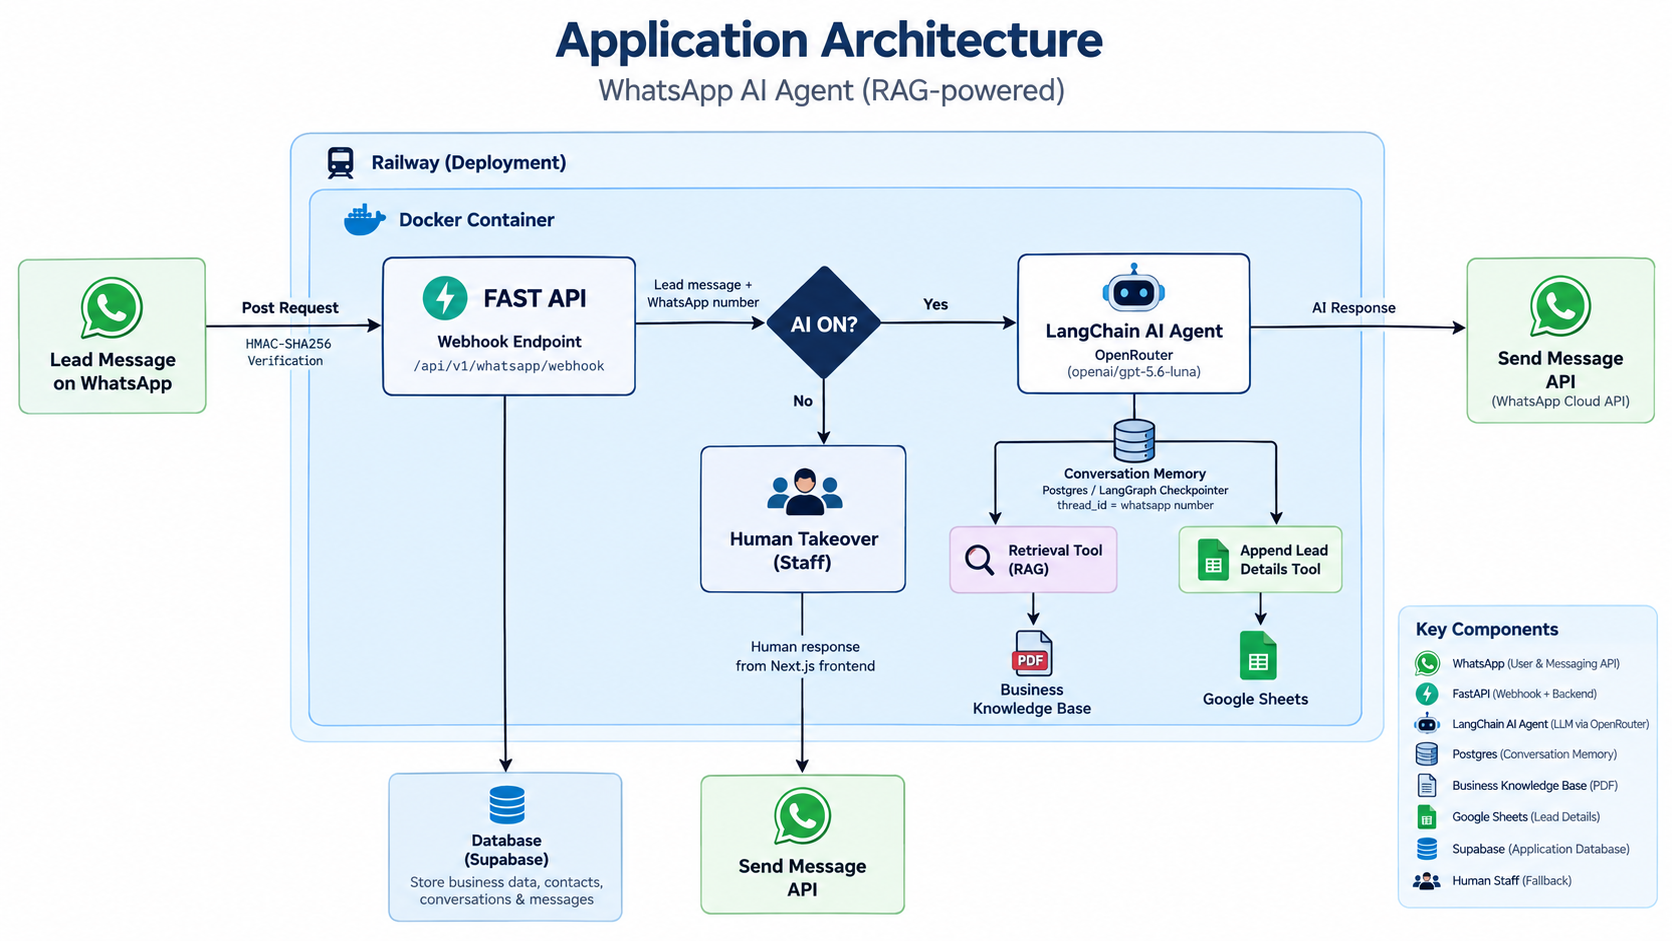
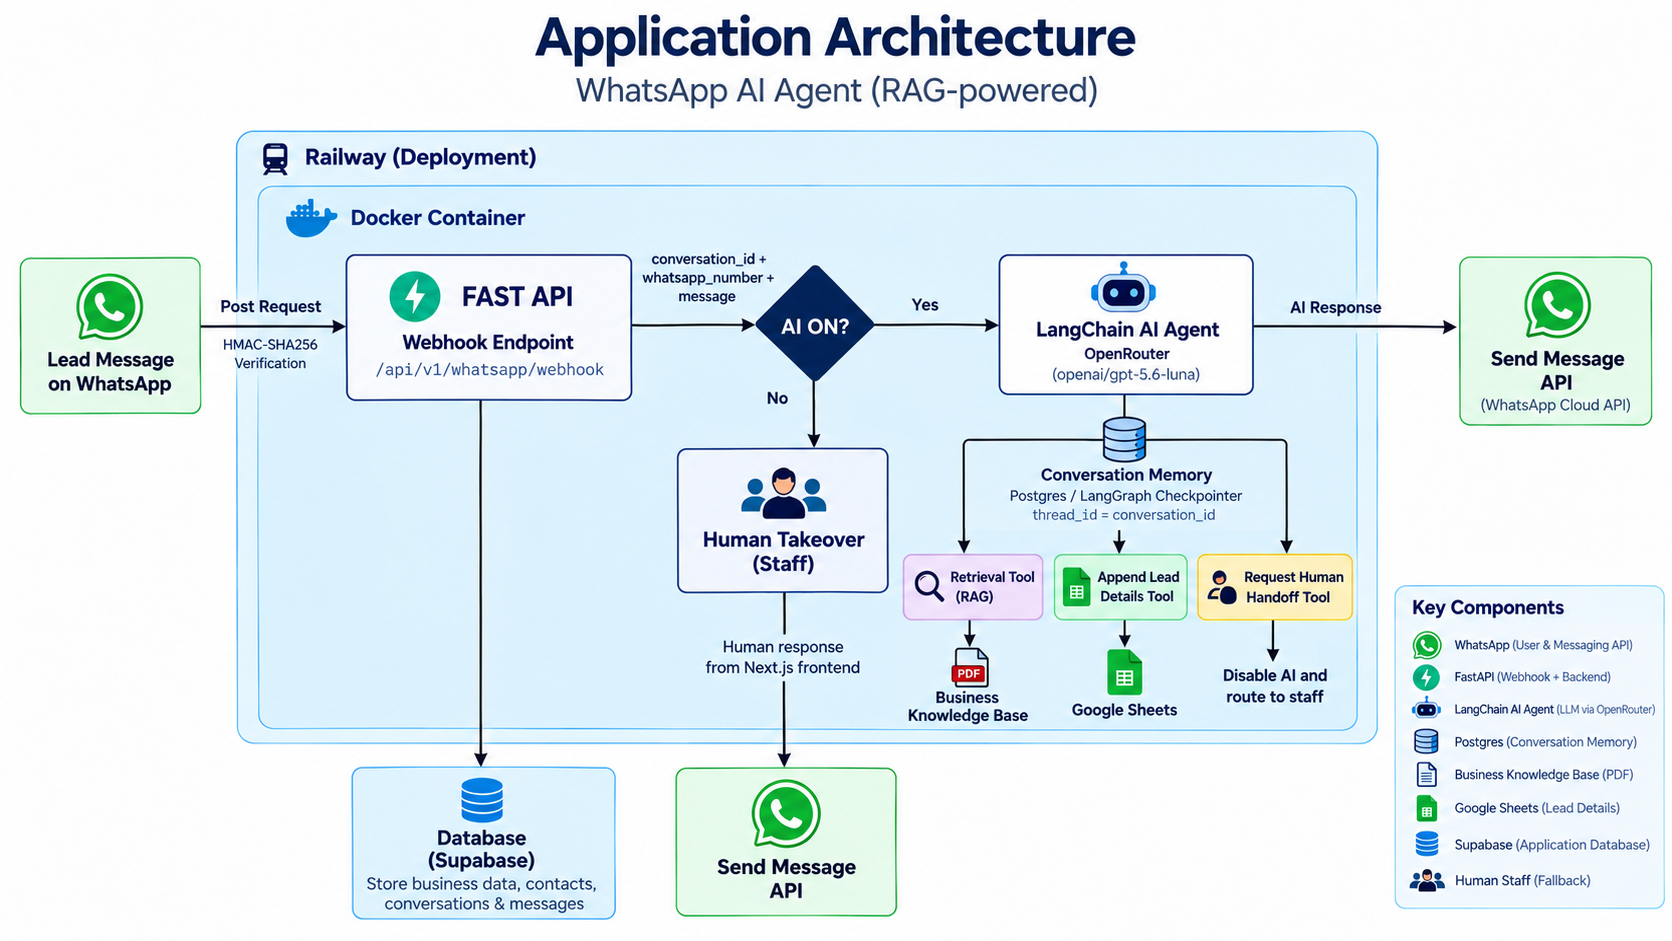
Update readme

diff --git a/README.md b/README.md
@@ -19,6 +19,8 @@ question, capturing lead information, and qualifying the lead.
 
 - **Lead capture and qualification** — Collects relevant lead information and qualifies prospective customers through conversation.
 
+- **Human handoff** — Automatically disables AI responses when a customer requests to speak with a human, allowing staff to take over the conversation.
+
 - **Appointment booking** — Guides customers through the booking workflow and collects the information required to schedule an appointment.
 
 - **Lead management with Google Sheets** — Uses a Google Sheets integration as an agent tool to record and manage captured lead information.
@@ -69,10 +71,10 @@ The agent uses a hybrid retrieval pipeline to ground responses in the business k
 
 User questions are passed to two complementary retrievers:
 
-- **Vector retrieval** using Chroma with `text-embedding-3-small` and Maximal Marginal Relevance (MMR).
+- **Vector retrieval** using Pinecone with `text-embedding-3-small`.
 - **Lexical retrieval** using BM25.
 
-Both retrievers return their top 5 results. The results are combined using weighted Reciprocal Rank Fusion (RRF), with a weight of `0.7` for vector retrieval and `0.3` for BM25. The resulting documents are provided to the agent as context for generating grounded responses.
+Both retrievers return their top 5 results. The results are combined using weighted Reciprocal Rank Fusion (RRF), with equal weights of `0.5` for vector retrieval and `0.5` for BM25. The resulting documents are provided to the agent as context for generating grounded responses.
 
 This hybrid approach combines semantic similarity with keyword-based retrieval, allowing the system to handle both conceptually similar questions and queries containing specific business terminology.
 
@@ -86,9 +88,11 @@ This hybrid approach combines semantic similarity with keyword-based retrieval, 
 
    The webhook extracts the incoming message and WhatsApp number, then determines whether the AI agent is currently enabled for the business.
 
-3. **Human takeover when AI is disabled**
+3. **Human takes over when AI is disabled**
 
-   If the AI agent is turned off, the message is routed to the human-handling workflow. Staff can respond to the customer through the Next.js dashboard without AI-generated responses interfering with the conversation.
+   The AI agent can be disabled either by business staff or automatically by the AI agent based on defined business rules. For example, the agent can disable itself when a customer explicitly requests to speak with a human.
+
+   When AI is disabled, the conversation is routed to the human-handling workflow. Staff can respond to the customer through the Next.js dashboard without AI-generated responses interfering with the conversation.
 
 4. **AI agent processes the conversation**
 
@@ -122,7 +126,7 @@ This hybrid approach combines semantic similarity with keyword-based retrieval, 
 
 ### Retrieval & Knowledge
 
-- **Chroma** — Vector store for semantic retrieval.
+- **Pinecone** — Vector store for semantic retrieval.
 - **OpenAI `text-embedding-3-small`** — Document embeddings.
 - **BM25** — Lexical keyword-based retrieval.
 - **Ensemble Retrieval / Weighted RRF** — Combines semantic and lexical retrieval results.
@@ -294,6 +298,14 @@ SUPABASE_SERVICE_ROLE_KEY=
 DATABASE_URL=
 ```
 
+### Pinecone
+
+Used for access vector store.
+
+```env
+PINECONE_API_KEY=
+```
+
 ### WhatsApp / Meta
 
 Used for WhatsApp webhook verification, request signature verification, and sending messages.
@@ -336,6 +348,8 @@ OPENROUTER_API_KEY=your_openrouter_api_key
 SUPABASE_URL=your_supabase_url
 SUPABASE_SERVICE_ROLE_KEY=your_supabase_service_role_key
 DATABASE_URL=your_database_url
+
+PINECONE_API_KEY=your_pinecone_api_key
 
 META_APP_SECRET=your_meta_app_secret
 WHATSAPP_PHONE_NUMBER_ID=your_whatsapp_phone_number_id
@@ -490,7 +504,7 @@ PASS / FAIL
 
 The agent uses a hybrid retrieval strategy that combines semantic vector retrieval with BM25 lexical retrieval.
 
-Chroma provides vector-based retrieval using `text-embedding-3-small` and Maximal Marginal Relevance (MMR), while BM25 provides keyword-based retrieval. The results are combined using weighted Reciprocal Rank Fusion (RRF), with weights of `0.7` for vector retrieval and `0.3` for BM25.
+Chroma provides vector-based retrieval using `text-embedding-3-small`, while BM25 provides keyword-based retrieval. The results are combined using weighted Reciprocal Rank Fusion (RRF), with weights of `0.5` for vector retrieval and `0.5` for BM25.
 
 This approach allows the system to benefit from both semantic similarity and exact keyword matching when retrieving information from the business knowledge base.
 
@@ -498,13 +512,15 @@ This approach allows the system to benefit from both semantic similarity and exa
 
 The agent uses LangGraph's PostgreSQL checkpointer to maintain conversation state across multiple messages.
 
-The customer's WhatsApp number is used as the conversation thread identifier, allowing the agent to retrieve previous conversational context when processing subsequent messages.
+The application's conversation ID is used as the LangGraph thread identifier, allowing the agent to retrieve and maintain the relevant conversational context across subsequent messages.
 
 ### Human-in-the-loop Control
 
-The application gives businesses the ability to disable the AI agent and allow staff to handle conversations directly.
+The application allows the AI agent to be disabled either manually by business staff or automatically by the agent when defined business rules require human intervention.
 
-This provides a manual takeover mechanism for situations where human assistance is preferred or required, rather than forcing every customer interaction through the AI agent.
+For example, if a customer explicitly requests to speak with a human, the agent can trigger a human handoff and disable further AI responses for that conversation. Staff can then handle the conversation through the Next.js dashboard.
+
+Customer and staff messages exchanged during human takeover are synchronized with the agent's conversation state, allowing the AI to resume with the relevant context if it is re-enabled.
 
 ### Tool-based Business Actions
 
@@ -529,8 +545,6 @@ Changes are developed on feature branches and submitted through pull requests ta
 This provides a controlled path for introducing changes while allowing the automated evaluation and regression pipeline to validate agent behavior before the changes reach production.
 
 ## Limitations
-
-- **Conversation memory across human takeover** — The agent's conversation memory currently does not include messages sent by human staff after an AI takeover. If the AI is later re-enabled for the same conversation, the agent may lose context from the period when a human was handling the conversation.
 
 - **No long-term memory** — The agent currently relies on conversational state rather than a dedicated long-term memory system. Information that may be useful across separate conversations is not yet persisted as long-term agent memory.
 
